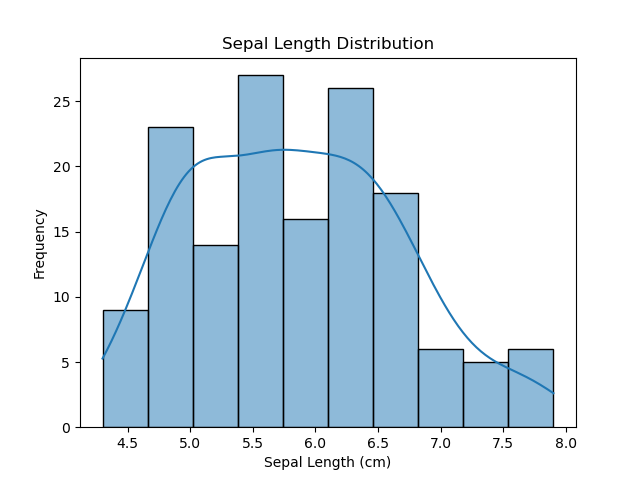
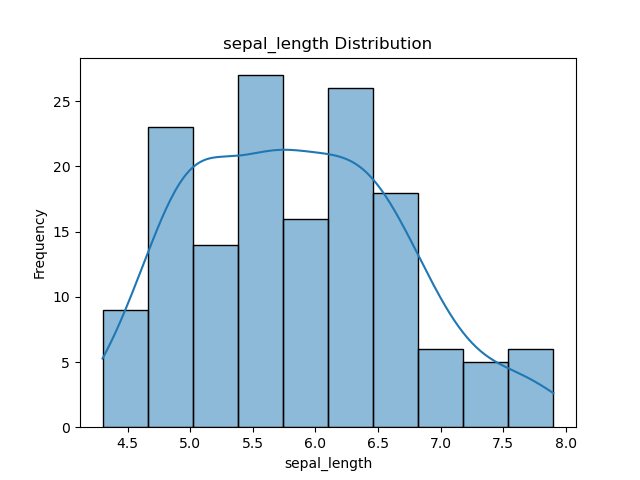
looped histogram with seaborn

Changed region(s): [[0.3438, 0.0625, 0.6875, 0.125], [0.4062, 0.9375, 0.625, 1.0]]

diff --git a/analysis.py b/analysis.py
@@ -47,4 +47,13 @@ plt.ylabel('Frequency')
 plt.savefig('sepal_length_distribution.png')
 plt.close() 
 
+# create histograms for all features
+for column in df.columns[:-1]: # negative indexing to exclude the last column (class)
+    sns.histplot(data=df, x=column, bins=10, kde=True)
+    plt.title(f'{column} Distribution')
+    plt.xlabel(column)
+    plt.ylabel('Frequency')
+    plt.savefig(f'{column}_distribution.png')
+    plt.close()
+
 

diff --git a/README.md b/README.md
@@ -11,7 +11,7 @@ The Iris Dataset is a famous dataset made by Ronald Fisher in 1936, often used a
 - [ ] Research the dataset online and write a summary about it in your README.
 - [x] Download the dataset and add it to your repository.
 - [ ] Write a program called analysis.py that:
-  - [ ] Outputs a summary of each variable to a single text file
+  - [x] Outputs a summary of each variable to a single text file
   - [ ] Saves a histogram of each variable to .png files
   - [ ] Outputs a scatter plot of each variables
   - [ ] Performs any other analysis you think is appropriate.
